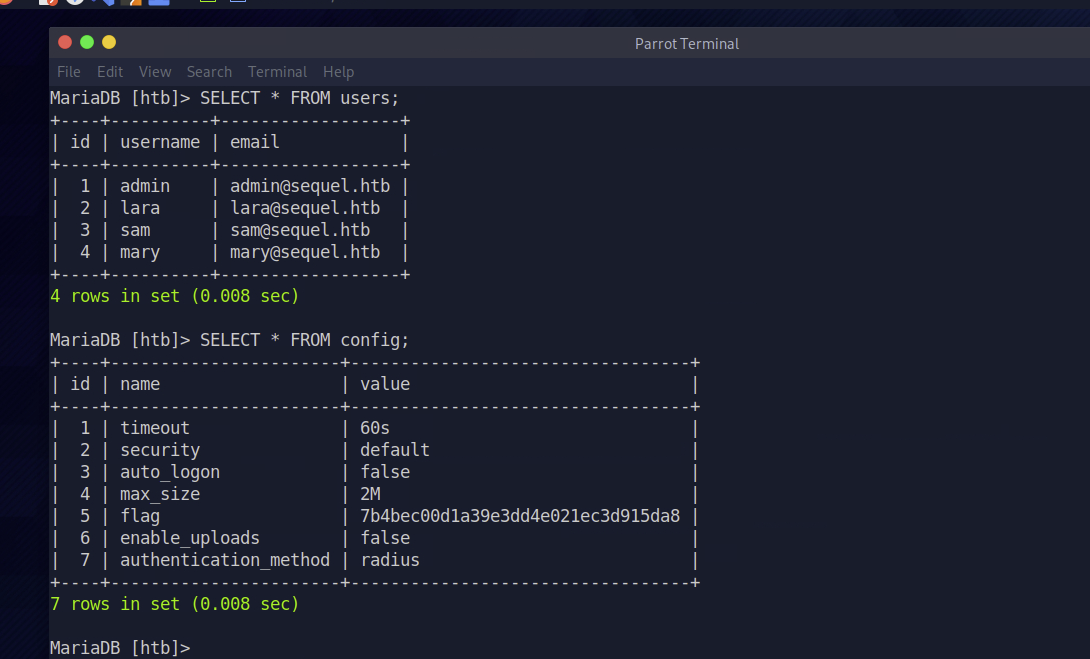
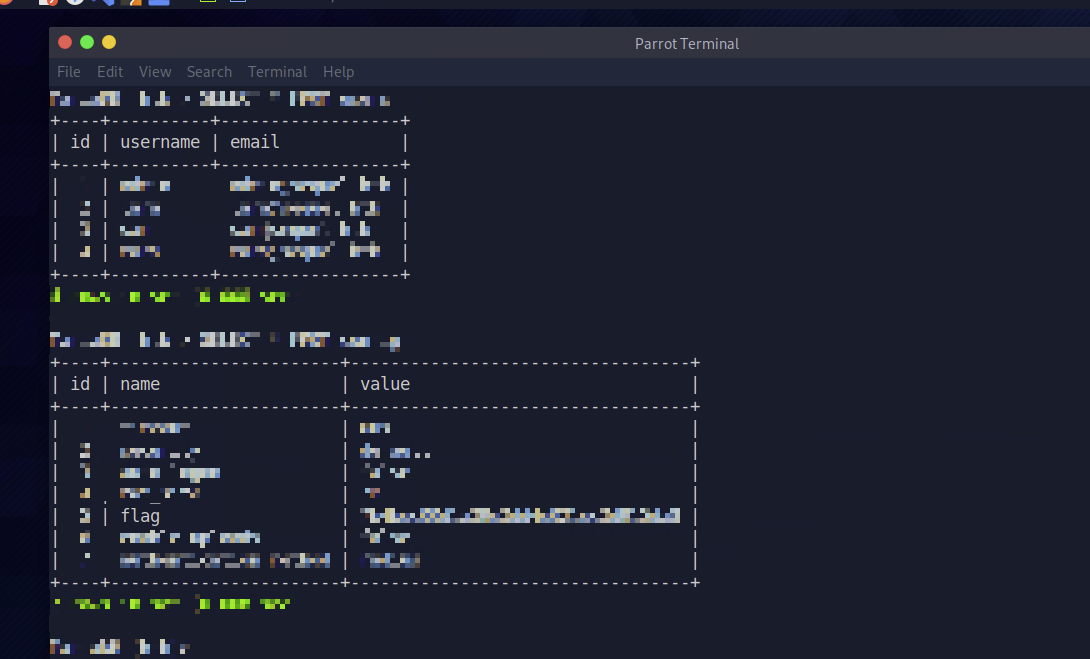
docs: clean Sequel write-up evidence

diff --git a/writeups/hackthebox/Labs/Starting_Point/Tier_1/Sequel/README.md b/writeups/hackthebox/Labs/Starting_Point/Tier_1/Sequel/README.md
@@ -58,15 +58,3 @@ SELECT value FROM config WHERE id = 5;
 
 I submitted the displayed value to complete the lab. The flag value is intentionally not transcribed here.
 
-## Help discovery
-
-When I needed the syntax for selecting a database, I used MariaDB's built-in help:
-
-```sql
-HELP USE;
-```
-
-This displayed the `USE db_name` syntax. `HELP CONTENTS;` can be used to browse server-side SQL help topics, while `HELP;` lists client commands.
-
-
-
